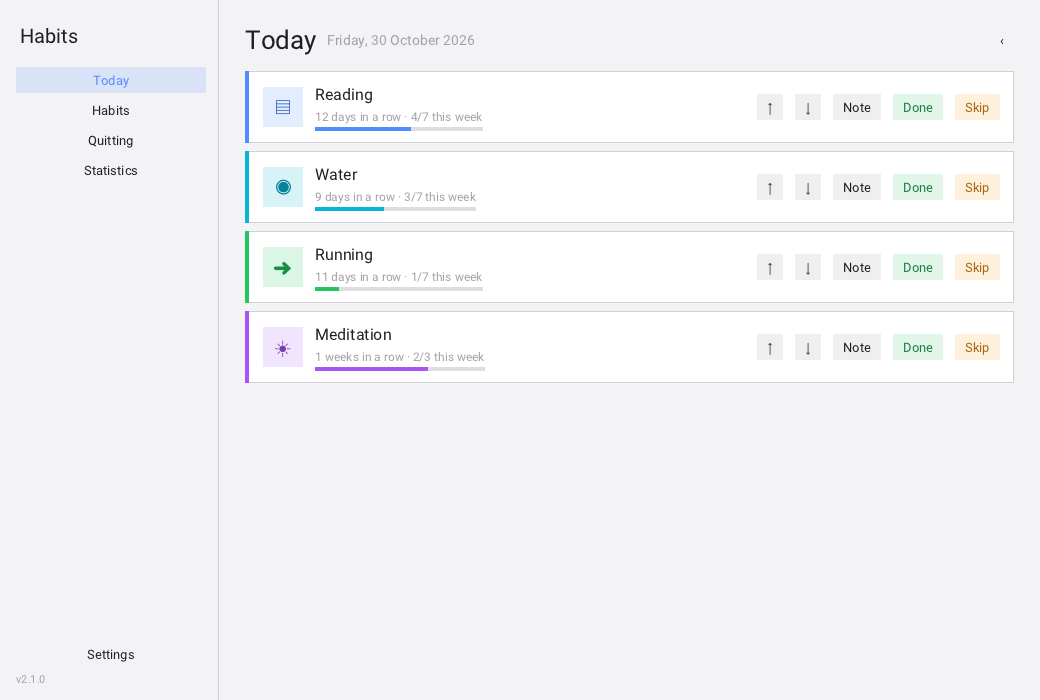
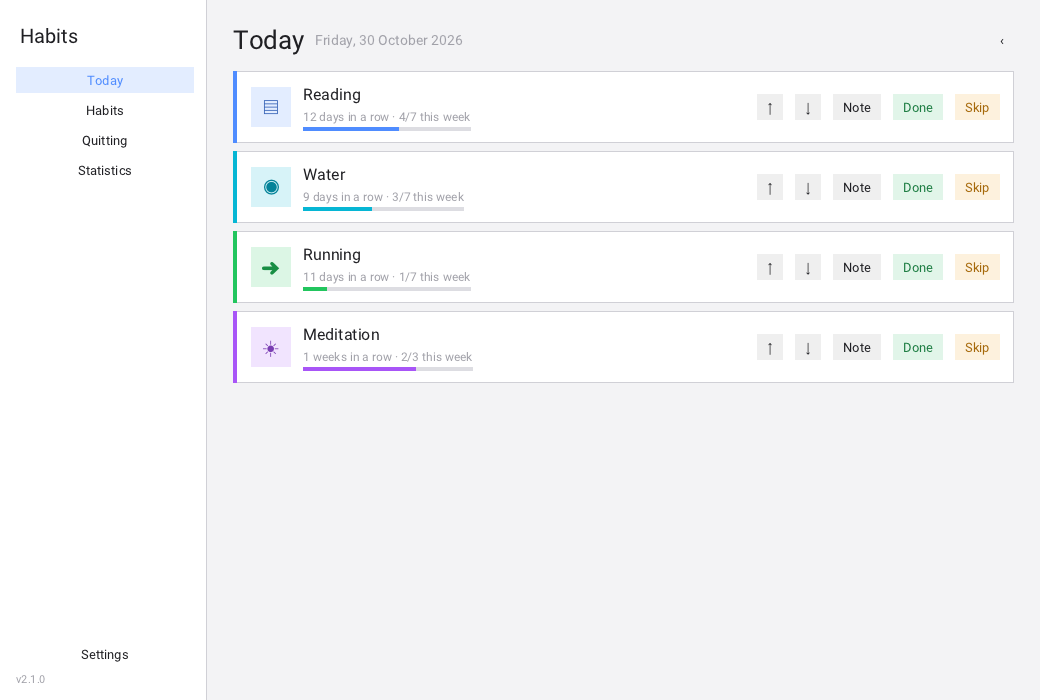
Give the menu its own panel background
The sidebar was a plain box, so its panel colour was never painted and it
looked exactly like the content area. It now sits on a Border with the same
surface colour as the cards, which makes the block read as a panel on both
themes.

diff --git a/src/desktop/main.c b/src/desktop/main.c
@@ -1584,14 +1584,18 @@ static void rebuild_all(void) {
     Rwidget_clear_children(g_app.root);
     for (int i = 0; i < SCREEN_COUNT; i++) g_app.nav[i] = R_INVALID_ID;
 
-    Rid sidebar = ui_vbox(4.0f);
-    Rwidget_set_size(sidebar, 190.0f, 0.0f);
-    Rslot_set_padding(sidebar, 16.0f, 18.0f, 12.0f, 14.0f);
+    /* The menu sits on its own panel surface, the same colour the cards use. */
+    Rid sidebar_bg = Rwidget_create(R_WIDGET_BORDER);
+    Rwidget_set_size(sidebar_bg, 206.0f, 0.0f);
+    Rborder_set_padding(sidebar_bg, 16.0f, 18.0f, 12.0f, 14.0f);
     float pr, pg, pb, pa;
     Rtheme_get_color(R_COLOR_PANEL, &pr, &pg, &pb, &pa);
-    Rwidget_set_color(sidebar, R_COLOR_PANEL, pr, pg, pb, 1.0f);
-    Rwidget_add_child(g_app.root, sidebar);
+    Rborder_set_background(sidebar_bg, pr, pg, pb, 1.0f);
+    Rborder_set_corner_radius(sidebar_bg, 0.0f, 0.0f, 0.0f, 0.0f);
+    Rid sidebar = ui_vbox(4.0f);
+    Rwidget_add_child(sidebar_bg, sidebar);
     build_sidebar(sidebar);
+    Rwidget_add_child(g_app.root, sidebar_bg);
 
     /* a one-pixel line between the menu and the content, like the card outlines */
     Rid separator = Rwidget_create(R_WIDGET_BORDER);
